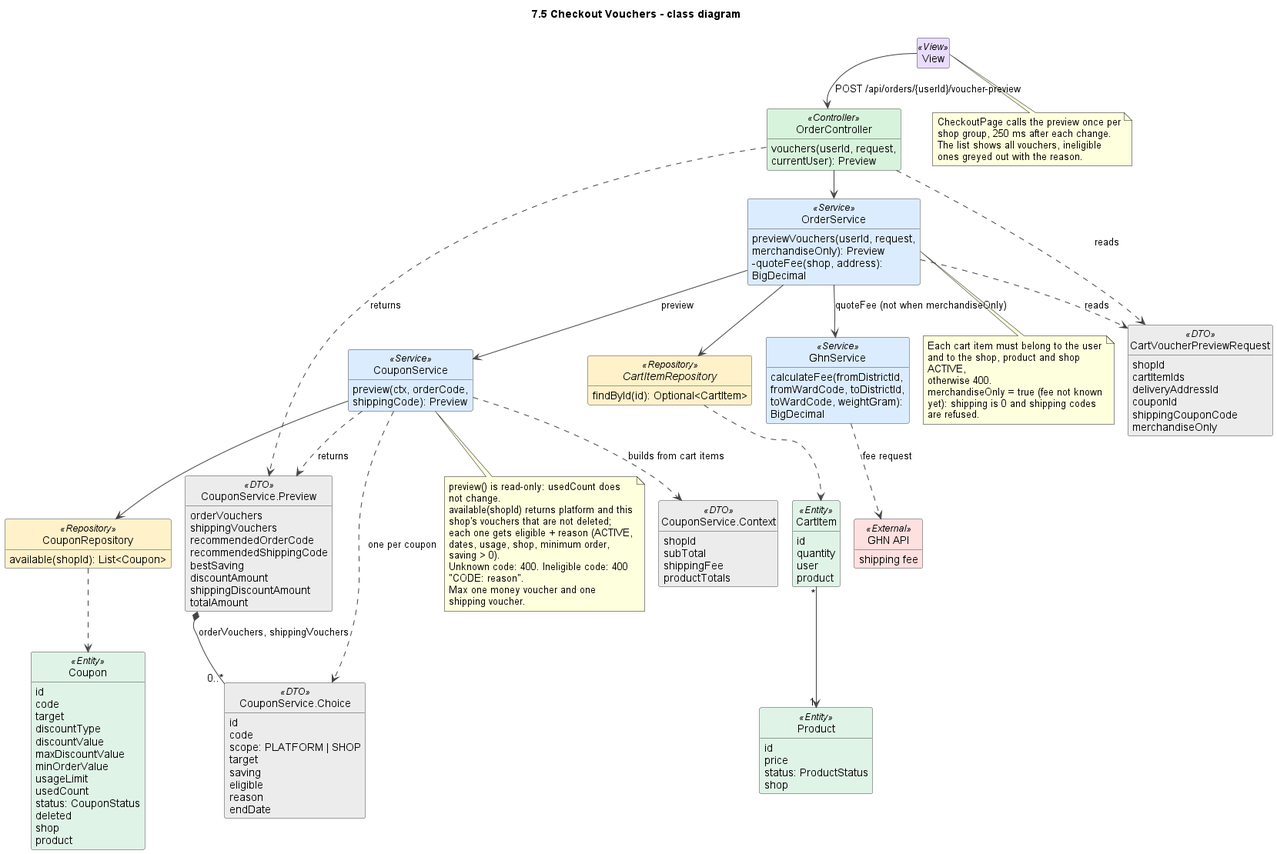
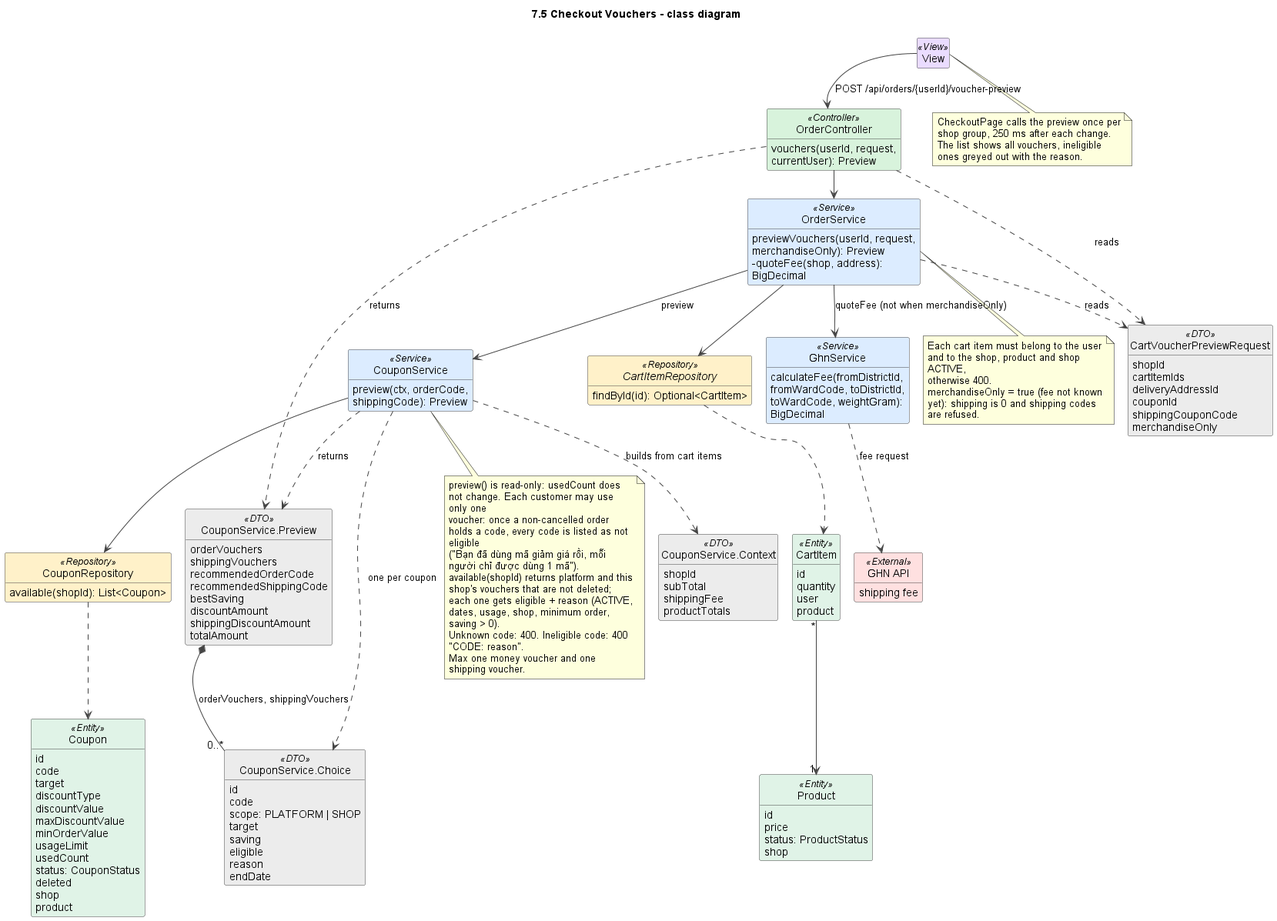
update coupons

diff --git a/flower-shop-client/src/components/checkout/VoucherPicker.jsx b/flower-shop-client/src/components/checkout/VoucherPicker.jsx
@@ -24,8 +24,8 @@ export default function VoucherPicker({ context, value, onChange, onPreview, dis
   }, [request, retry, onPreview])
 
   const choose = (key, code) => onChange(key === 'shippingCouponCode'
-    ? { couponCode: '', shippingCouponCode: code } // Money eligibility changes when the shipping slot changes.
-    : { ...value, couponCode: code })
+    ? { couponCode: '', shippingCouponCode: code } // Mỗi người chỉ được dùng 1 mã giảm giá: chọn mã vận chuyển thì bỏ mã giảm tiền.
+    : { couponCode: code, shippingCouponCode: '' }) // Mỗi người chỉ được dùng 1 mã giảm giá
   const renderChoices = (items, key, title) => <fieldset disabled={disabled || busy} className="space-y-2">
     <legend className="mb-2 text-sm font-semibold">{title}</legend>
     <label className="flex items-center gap-2 text-sm"><input type="radio" name={`${namespace}-voucher-${key}`} checked={!value[key]} onChange={() => choose(key, '')} />Không dùng mã</label>

diff --git a/flowershop/src/test/java/com/example/flowershop/CouponTests.java b/flowershop/src/test/java/com/example/flowershop/CouponTests.java
@@ -114,23 +114,22 @@ class CouponTests {
         var low=coupon("CUSTOMLOW",CouponTarget.ORDER,"5","20000");low.setShop(shop);
         var high=coupon("CUSTOMHIGH",CouponTarget.ORDER,"20","70000");high.setShop(shop);
         var ship=coupon("CUSTOMSHIP",CouponTarget.SHIPPING,"100","30000");coupons.flush();
-        var input=depositInput();input.setCouponCode(low.getCode());input.setShippingCouponCode(ship.getCode());
+        var input=depositInput();input.setCouponCode(low.getCode());
         var preview=cartOrders.previewCustomVouchers(customer.getId(),design.getId(),input);
-        assertThat(preview.totalAmount()).isEqualByComparingTo("480000");
+        assertThat(preview.totalAmount()).isEqualByComparingTo("510000");
         assertThat(preview.depositAmount()).isEqualByComparingTo("144000");
-        assertThat(preview.remainingAmount()).isEqualByComparingTo("336000");
-        assertThat(preview.orderVouchers()).filteredOn(v->v.code().equals(high.getCode())).allSatisfy(v->assertThat(v.eligible()).isFalse());
+        assertThat(preview.remainingAmount()).isEqualByComparingTo("366000");
         input.setExpectedTotal(preview.totalAmount());
         input.setExpectedDeposit(preview.depositAmount());
         var created=cartOrders.makeCustomOrder(customer.getId(),design.getId(),input);
         var saved=orders.findById(created.getId()).orElseThrow();
         assertThat(saved.getStatus()).isEqualTo(OrderStatus.AWAITING_DEPOSIT);
-        assertThat(saved.getTotalAmount()).isEqualByComparingTo("480000");
+        assertThat(saved.getTotalAmount()).isEqualByComparingTo("510000");
         assertThat(saved.getDepositAmount()).isEqualByComparingTo("144000");
         assertThat(created.getCouponCode()).isEqualTo(low.getCode());
-        assertThat(created.getShippingCouponCode()).isEqualTo(ship.getCode());
+        assertThat(created.getShippingCouponCode()).isNull();
         assertThat(coupons.findById(low.getId()).orElseThrow().getUsedCount()).isEqualTo(1);
-        assertThat(coupons.findById(ship.getId()).orElseThrow().getUsedCount()).isEqualTo(1);
+        assertThat(coupons.findById(ship.getId()).orElseThrow().getUsedCount()).isZero();
         assertThat(payments.findByOrderId(saved.getId())).isEmpty();
         var gateway=PaymentBusinessTests.newGateway(orders,payments,refunds,cartOrders);
         org.springframework.test.util.ReflectionTestUtils.setField(gateway,"merchantId","merchant-test");
@@ -188,17 +187,15 @@ class CouponTests {
         coupon("FREE",CouponTarget.SHIPPING,"100","70000");
         assertThat(service.preview(ctx(),null,"FREE").shippingDiscountAmount()).isEqualByComparingTo("30000");
     }
-    @Test void shippingAllowsOnlyLowestActualSavingAndDisablesOthers() {
-        coupon("CAP20",CouponTarget.ORDER,"100","20000");
+    @Test void orderAndShippingCodesCannotBeCombinedBecauseOnlyOneVoucherIsAllowed() {
         coupon("ONEPERCENT",CouponTarget.ORDER,"1","70000");
         coupon("SHIP",CouponTarget.SHIPPING,"100","30000");
-        var result=service.preview(ctx(),"ONEPERCENT","SHIP");
-        assertThat(result.totalAmount()).isEqualByComparingTo("495000");
-        assertThat(result.orderVouchers()).filteredOn(v -> v.code().equals("CAP20"))
-                .allSatisfy(v -> { assertThat(v.eligible()).isFalse(); assertThat(v.reason()).isEqualTo("mã voucher không phù hợp"); });
-        assertThatThrownBy(() -> service.preview(ctx(),"CAP20","SHIP")).isInstanceOf(ApiException.class).hasMessage("mã voucher không phù hợp");
+        assertThatThrownBy(() -> service.preview(ctx(),"ONEPERCENT","SHIP")).isInstanceOf(ApiException.class)
+                .hasMessageContaining("Mỗi người chỉ được dùng 1 mã giảm giá");
+        assertThat(service.preview(ctx(),"ONEPERCENT",null).totalAmount()).isEqualByComparingTo("525000");
+        assertThat(service.preview(ctx(),null,"SHIP").totalAmount()).isEqualByComparingTo("500000");
     }
-    @Test void recommendsBestCombinationRatherThanAlwaysStacking() {
+    @Test void recommendsTheSingleBestVoucher() {
         coupon("LOW",CouponTarget.ORDER,"10","20000");
         var high=coupon("HIGH",CouponTarget.ORDER,"20","70000");
         coupon("SHIP",CouponTarget.SHIPPING,"100","30000");
@@ -208,9 +205,9 @@ class CouponTests {
         assertThat(result.bestSaving()).isEqualByComparingTo("70000");
         high.setDiscountValue(money("5")); coupons.saveAndFlush(high);
         result=service.preview(ctx(),null,null);
-        assertThat(result.recommendedOrderCode()).isEqualTo("LOW");
+        assertThat(result.recommendedOrderCode()).isNull();
         assertThat(result.recommendedShippingCode()).isEqualTo("SHIP");
-        assertThat(result.bestSaving()).isEqualByComparingTo("50000");
+        assertThat(result.bestSaving()).isEqualByComparingTo("30000");
     }
     @Test void minimumExcludesExpiredUnavailableAndWrongShopVouchersAndAcceptsTies() {
         var expired=coupon("EXPIRED",CouponTarget.ORDER,"1","20000"); expired.setEndDate(LocalDateTime.now().minusHours(1));
@@ -220,7 +217,7 @@ class CouponTests {
         var min=coupon("MINIMUM",CouponTarget.ORDER,"1","20000"); min.setMinOrderValue(money("600000"));
         coupon("LOW1",CouponTarget.ORDER,"10","20000"); coupon("LOW2",CouponTarget.ORDER,"10","20000"); coupon("SHIP",CouponTarget.SHIPPING,"100","30000");
         coupons.flush();
-        var result=service.preview(ctx(),"LOW2","SHIP");
+        var result=service.preview(ctx(),"LOW2",null);
         assertThat(result.orderVouchers()).filteredOn(CouponService.Choice::eligible).extracting(CouponService.Choice::code).containsExactlyInAnyOrder("LOW1","LOW2");
         assertThat(result.orderVouchers()).extracting(CouponService.Choice::code).doesNotContain("OTHER");
     }
@@ -233,13 +230,13 @@ class CouponTests {
     }
     @Test void directCheckoutPersistsBothDiscountsAndPaymentTotalAndReleasesOnce() {
         var low=coupon("LOW",CouponTarget.ORDER,"10","20000"); var ship=coupon("SHIP",CouponTarget.SHIPPING,"100","30000");
-        var result=customerOrders.checkout(customer.getId(),new CustomerOrderService.CheckoutRequest(destination.getId(),product.getId(),1,"","LOW","SHIP"));
-        assertThat(result.totalAmount()).isEqualByComparingTo("480000");
+        var result=customerOrders.checkout(customer.getId(),new CustomerOrderService.CheckoutRequest(destination.getId(),product.getId(),1,"","LOW",null));
+        assertThat(result.totalAmount()).isEqualByComparingTo("510000");
         var saved=customerOrders.detail(customer.getId(),result.orderId());
-        assertThat(saved.couponCode()).isEqualTo("LOW"); assertThat(saved.shippingCouponCode()).isEqualTo("SHIP");
-        assertThat(saved.discountAmount()).isEqualByComparingTo("20000"); assertThat(saved.shippingDiscountAmount()).isEqualByComparingTo("30000");
-        assertThat(payments.findByOrderId(result.orderId())).allSatisfy(p -> assertThat(p.getAmount()).isEqualByComparingTo("480000"));
-        assertThat(low.getUsedCount()).isEqualTo(1); assertThat(ship.getUsedCount()).isEqualTo(1);
+        assertThat(saved.couponCode()).isEqualTo("LOW"); assertThat(saved.shippingCouponCode()).isNull();
+        assertThat(saved.discountAmount()).isEqualByComparingTo("20000"); assertThat(saved.shippingDiscountAmount()).isEqualByComparingTo("0");
+        assertThat(payments.findByOrderId(result.orderId())).allSatisfy(p -> assertThat(p.getAmount()).isEqualByComparingTo("510000"));
+        assertThat(low.getUsedCount()).isEqualTo(1); assertThat(ship.getUsedCount()).isZero();
         manager.cancel(shop.getId(),owner.getId(),result.orderId(),"Cancel");
         service.release(orders.findById(result.orderId()).orElseThrow());
         assertThat(low.getUsedCount()).isZero(); assertThat(ship.getUsedCount()).isZero();
@@ -248,10 +245,10 @@ class CouponTests {
         var low=coupon("LOW",CouponTarget.ORDER,"10","20000"); var ship=coupon("SHIP",CouponTarget.SHIPPING,"100","30000");
         var item=cart.saveAndFlush(CartItem.builder().id(id()).user(customer).product(product).quantity(1).build());
         var req=new MakeOrderRequest(); req.setShopId(shop.getId()); req.setCartItemIds(List.of(item.getId())); req.setDeliveryAddressId(destination.getId());
-        req.setCouponId("LOW"); req.setShippingCouponCode("SHIP"); req.setPaymentMethod("ONLINE");
-        assertThat(cartOrders.previewVouchers(customer.getId(),req).totalAmount()).isEqualByComparingTo("480000");
+        req.setCouponId("LOW"); req.setPaymentMethod("ONLINE");
+        assertThat(cartOrders.previewVouchers(customer.getId(),req).totalAmount()).isEqualByComparingTo("510000");
         var result=cartOrders.makeOrder(customer.getId(),req);
-        assertThat(result.getTotalAmount()).isEqualByComparingTo("480000");
+        assertThat(result.getTotalAmount()).isEqualByComparingTo("510000");
         var order=orders.findById(result.getId()).orElseThrow(); order.setPaymentStartedAt(LocalDateTime.now().minusMinutes(11));
         cartOrders.cancelExpiredOrder(order.getId(),"Expired"); cartOrders.cancelExpiredOrder(order.getId(),"Expired again");
         assertThat(low.getUsedCount()).isZero(); assertThat(ship.getUsedCount()).isZero();
@@ -262,10 +259,10 @@ class CouponTests {
         var design=new CustomFlowerOrderService.RequestInput(shop.getId(),1,"",new CustomFlowerOrderService.Preferences(null,null,null,null,null,null));
         var receipt=workflow.create(customer.getId(),new CustomOrderWorkflowService.CreateInput(destination.getId(),design));
         workflow.quote(shop.getId(),owner.getId(),receipt.orderId(),new CustomOrderWorkflowService.Quote(money("400000"),"Quote"));
-        var preview=workflow.previewVouchers(customer.getId(),receipt.orderId(),new CustomOrderWorkflowService.VoucherInput("LOW","SHIP"));
+        var preview=workflow.previewVouchers(customer.getId(),receipt.orderId(),new CustomOrderWorkflowService.VoucherInput("LOW",null));
         assertThat(low.getUsedCount()).isZero();
-        workflow.accept(customer.getId(),receipt.orderId(),new CustomOrderWorkflowService.Accept(PaymentMethod.COD,preview.totalAmount(),"LOW","SHIP"));
-        assertThat(customerOrders.detail(customer.getId(),receipt.orderId()).totalAmount()).isEqualByComparingTo("380000");
+        workflow.accept(customer.getId(),receipt.orderId(),new CustomOrderWorkflowService.Accept(PaymentMethod.COD,preview.totalAmount(),"LOW",null));
+        assertThat(customerOrders.detail(customer.getId(),receipt.orderId()).totalAmount()).isEqualByComparingTo("410000");
         assertThat(low.getUsedCount()).isEqualTo(1);
     }
     @Test void quotedCustomWithVouchersCanPayDepositInsteadOfBeingForcedToFullOrCod() {
@@ -276,11 +273,11 @@ class CouponTests {
                 new CustomFlowerOrderService.Preferences(null,null,null,null,null,null));
         var receipt=workflow.create(customer.getId(),new CustomOrderWorkflowService.CreateInput(destination.getId(),design));
         workflow.quote(shop.getId(),owner.getId(),receipt.orderId(),new CustomOrderWorkflowService.Quote(money("400000"),"Quote"));
-        var preview=workflow.previewVouchers(customer.getId(),receipt.orderId(),new CustomOrderWorkflowService.VoucherInput("DEPOSITLOW","DEPOSITSHIP"));
-        assertThat(preview.totalAmount()).isEqualByComparingTo("380000");
-        assertThat(preview.depositAmount()).isEqualByComparingTo("190000");
+        var preview=workflow.previewVouchers(customer.getId(),receipt.orderId(),new CustomOrderWorkflowService.VoucherInput("DEPOSITLOW",null));
+        assertThat(preview.totalAmount()).isEqualByComparingTo("410000");
+        assertThat(preview.depositAmount()).isEqualByComparingTo("205000");
         var result=workflow.accept(customer.getId(),receipt.orderId(),new CustomOrderWorkflowService.Accept(
-                PaymentMethod.ONLINE,preview.totalAmount(),"DEPOSITLOW","DEPOSITSHIP",PaymentType.DEPOSIT,preview.depositAmount()));
+                PaymentMethod.ONLINE,preview.totalAmount(),"DEPOSITLOW",null,PaymentType.DEPOSIT,preview.depositAmount()));
         assertThat(result.status()).isEqualTo("AWAITING_DEPOSIT");
         var order=orders.findById(receipt.orderId()).orElseThrow();
         assertThat(order.getPaymentStartedAt()).isNotNull();
@@ -289,8 +286,8 @@ class CouponTests {
         org.springframework.test.util.ReflectionTestUtils.setField(gateway,"secretKey","secret-test");
         var payment=gateway.createPayment(com.example.flowershop.dto.payment.CreatePaymentRequest.builder()
                 .orderId(order.getId()).paymentType(PaymentType.DEPOSIT).build(),customer.getId());
-        assertThat(payment.getAmount()).isEqualByComparingTo("190000");
-        assertThat(payment.getFields().get("order_amount")).isEqualTo("190000");
+        assertThat(payment.getAmount()).isEqualByComparingTo("205000");
+        assertThat(payment.getFields().get("order_amount")).isEqualTo("205000");
     }
     @Test void multiShopCheckoutKeepsEachShopsVoucherAndDiscountedTotal() {
         var first=coupon("FIRST",CouponTarget.ORDER,"5","20000"); first.setShop(shop); coupons.saveAndFlush(first);
@@ -300,12 +297,12 @@ class CouponTests {
         var item1=cart.saveAndFlush(CartItem.builder().id(id()).user(customer).product(product).quantity(1).build());
         var item2=cart.saveAndFlush(CartItem.builder().id(id()).user(customer).product(otherProduct).quantity(1).build());
         var a=new com.example.flowershop.dto.order.MakeOrdersRequest.ShopOrder(); a.setShopId(shop.getId()); a.setCartItemIds(List.of(item1.getId())); a.setCouponId("FIRST"); a.setExpectedTotal(money("510000"));
-        var b=new com.example.flowershop.dto.order.MakeOrdersRequest.ShopOrder(); b.setShopId(otherShop.getId()); b.setCartItemIds(List.of(item2.getId())); b.setCouponId("SECOND"); b.setExpectedTotal(money("480000"));
+        var b=new com.example.flowershop.dto.order.MakeOrdersRequest.ShopOrder(); b.setShopId(otherShop.getId()); b.setCartItemIds(List.of(item2.getId())); b.setExpectedTotal(money("530000"));
         var request=new com.example.flowershop.dto.order.MakeOrdersRequest(); request.setDeliveryAddressId(destination.getId()); request.setPaymentMethod("ONLINE"); request.setRecipientName("Customer"); request.setPhone("0901234567"); request.setShops(List.of(a,b));
         var result=cartOrders.makeOrders(customer.getId(),request);
         assertThat(result).hasSize(2);
-        assertThat(result).extracting(com.example.flowershop.dto.order.OrderResponse::getCouponCode).containsExactlyInAnyOrder("FIRST","SECOND");
-        assertThat(result.stream().map(com.example.flowershop.dto.order.OrderResponse::getTotalAmount).reduce(BigDecimal.ZERO,BigDecimal::add)).isEqualByComparingTo("990000");
+        assertThat(result).extracting(com.example.flowershop.dto.order.OrderResponse::getCouponCode).containsExactlyInAnyOrder("FIRST",null);
+        assertThat(result.stream().map(com.example.flowershop.dto.order.OrderResponse::getTotalAmount).reduce(BigDecimal.ZERO,BigDecimal::add)).isEqualByComparingTo("1040000");
         assertThat(result.stream().map(r -> orders.findById(r.getId()).orElseThrow().getCheckoutGroup()).distinct().toList()).hasSize(1).doesNotContainNull();
     }
     MockHttpServletRequestBuilder csrf(MockHttpServletRequestBuilder request,String role) throws Exception {
@@ -367,11 +364,11 @@ class CouponTests {
         body.put("merchandiseOnly",false);
         mvc.perform(csrf(post(path),"customer").content(json.writeValueAsString(body))).andExpect(status().isBadRequest());
     }
-    @Test void checkoutApiRejectsForgedHighVoucherWithShipping() throws Exception {
+    @Test void checkoutApiRejectsAnOrderCodeTogetherWithAShippingCode() throws Exception {
         coupon("LOW",CouponTarget.ORDER,"10","20000"); coupon("HIGH",CouponTarget.ORDER,"20","70000"); coupon("SHIP",CouponTarget.SHIPPING,"100","30000");
         String request="{\"addressId\":\""+destination.getId()+"\",\"productId\":\""+product.getId()+"\",\"quantity\":1,\"couponCode\":\"HIGH\",\"shippingCouponCode\":\"SHIP\"}";
         mvc.perform(csrf(post("/api/customer/orders/checkout"),"customer").content(request)).andExpect(status().isBadRequest())
-                .andExpect(jsonPath("$.message").value("mã voucher không phù hợp"));
+                .andExpect(jsonPath("$.message").value(org.hamcrest.Matchers.containsString("Mỗi người chỉ được dùng 1 mã giảm giá")));
     }
     @Test
     @Transactional(propagation=org.springframework.transaction.annotation.Propagation.NOT_SUPPORTED)
@@ -395,5 +392,24 @@ class CouponTests {
                     .containsExactlyInAnyOrder(true,false);
             assertThat(coupons.findById(c.getId()).orElseThrow().getUsedCount()).isEqualTo(1);
         } finally { pool.shutdownNow(); coupons.deleteById(c.getId()); }
+    }
+    @Test void eachCustomerUsesOnlyOneVoucherUntilThatOrderIsCancelled() {
+        var voucher=coupon("ONEONLY",CouponTarget.ORDER,"10","20000");
+        var other=coupon("SECONDCODE",CouponTarget.ORDER,"10","20000");
+        String refused="Bạn đã dùng mã giảm giá rồi, mỗi người chỉ được dùng 1 mã";
+        Order first=orders.saveAndFlush(Order.builder().id(id()).customer(customer).shop(shop).orderType(OrderType.STANDARD)
+                .status(OrderStatus.PENDING).subTotal(money("500000")).totalAmount(money("500000")).build());
+        service.apply(first,ctx(),voucher.getCode(),null);orders.flush();
+        var preview=service.preview(ctx(),customer.getId(),null,null);
+        assertThat(preview.orderVouchers()).allSatisfy(v->{assertThat(v.eligible()).isFalse();assertThat(v.reason()).isEqualTo(refused);});
+        assertThatThrownBy(()->service.preview(ctx(),customer.getId(),other.getCode(),null)).isInstanceOf(ApiException.class).hasMessageContaining(refused);
+        Order second=orders.saveAndFlush(Order.builder().id(id()).customer(customer).shop(shop).orderType(OrderType.STANDARD)
+                .status(OrderStatus.PENDING).subTotal(money("500000")).totalAmount(money("500000")).build());
+        assertThatThrownBy(()->service.apply(second,ctx(),other.getCode(),null)).isInstanceOf(ApiException.class).hasMessageContaining(refused);
+        assertThatThrownBy(()->service.apply(second,ctx(),voucher.getCode(),null)).isInstanceOf(ApiException.class).hasMessageContaining(refused);
+        var otherCustomer=user(UserRole.CUSTOMER);
+        assertThat(service.preview(ctx(),otherCustomer.getId(),voucher.getCode(),null).discountAmount()).isPositive();
+        service.release(first);orders.flush();
+        assertThat(service.preview(ctx(),customer.getId(),other.getCode(),null).discountAmount()).isPositive();
     }
 }

diff --git a/flowershop/src/main/java/com/example/flowershop/service/CouponService.java b/flowershop/src/main/java/com/example/flowershop/service/CouponService.java
@@ -35,8 +35,9 @@ public class CouponService {
     private final CouponRepository coupons;
     private final ShopRepository shops;
     private final ProductRepository products;
-    public CouponService(CouponRepository coupons, ShopRepository shops, ProductRepository products) {
-        this.coupons=coupons; this.shops=shops; this.products=products;
+    private final OrderRepository orders;
+    public CouponService(CouponRepository coupons, ShopRepository shops, ProductRepository products, OrderRepository orders) {
+        this.coupons=coupons; this.shops=shops; this.products=products; this.orders=orders;
     }
     private LocalDateTime now() { return LocalDateTime.now(ZoneId.of("Asia/Ho_Chi_Minh")); }
     private Shop owned(String shopId, String actor) {
@@ -90,12 +91,13 @@ public class CouponService {
     public void delete(String actor,String shopId,String id) {
         Coupon c=managed(actor,shopId,id); c.setDeleted(true); c.setStatus(CouponStatus.DISABLED); c.setLastModifyBy(actor);
     }
-    private String reason(Coupon c, Context ctx) {
+    private String reason(Coupon c, Context ctx, Set<String> usedByCustomer) {
         if(c.isDeleted() || c.getStatus()!=CouponStatus.ACTIVE) return "Mã đã ngừng áp dụng";
         var time=now();
         if(time.isBefore(c.getStartDate())) return "Mã chưa đến ngày bắt đầu";
         if(!time.isBefore(c.getEndDate())) return "Mã đã hết hạn";
         if(c.getUsedCount()>=c.getUsageLimit()) return "Mã đã hết lượt sử dụng";
+        if(!usedByCustomer.isEmpty()) return "Bạn đã dùng mã giảm giá rồi, mỗi người chỉ được dùng 1 mã";
         if(c.getShop()!=null && (!c.getShop().getId().equals(ctx.shopId()) || c.getTarget()!=CouponTarget.ORDER)) return "Mã không áp dụng cho shop này";
         if(c.getDiscountValue()==null || c.getDiscountValue().signum()<=0 || c.getMaxDiscountValue()==null
                 || c.getMaxDiscountValue().signum()<=0 || c.getMaxDiscountValue().compareTo(new BigDecimal("100000"))>0
@@ -117,45 +119,47 @@ public class CouponService {
         return amount.min(c.getMaxDiscountValue()).min(limit).max(BigDecimal.ZERO).setScale(0,RoundingMode.DOWN);
     }
     private Comparator<Coupon> bySaving(Context ctx) { return Comparator.comparing((Coupon c) -> saving(c,ctx)).thenComparing(Coupon::getCode); }
-    private Coupon selected(List<Coupon> all,String code,boolean shipping,Context ctx) {
+    private Coupon selected(List<Coupon> all,String code,boolean shipping,Context ctx,Set<String> used) {
         if(code==null || code.isBlank()) return null;
         var c=all.stream().filter(v -> v.getCode().equalsIgnoreCase(code.strip())).findFirst()
                 .orElseThrow(() -> ApiException.badRequest("Mã giảm giá không tồn tại hoặc không áp dụng cho shop này."));
-        String error=reason(c,ctx);
+        String error=reason(c,ctx,used);
         if(error!=null) throw ApiException.badRequest(c.getCode()+": "+error);
         if((c.getTarget()==CouponTarget.SHIPPING)!=shipping) throw ApiException.badRequest("Mã không đúng loại giảm giá đã chọn.");
         return c;
     }
+    /** Không biết khách là ai: bỏ qua luật mỗi người chỉ dùng 1 mã giảm giá. */
     public Preview preview(Context ctx,String orderCode,String shippingCode) {
-        return evaluate(ctx,orderCode,shippingCode,coupons.available(ctx.shopId()));
+        return evaluate(ctx,orderCode,shippingCode,coupons.available(ctx.shopId()),Set.of());
     }
-    private Preview evaluate(Context ctx,String orderCode,String shippingCode,List<Coupon> all) {
-        var money=all.stream().filter(c -> c.getTarget()!=CouponTarget.SHIPPING && reason(c,ctx)==null).sorted(bySaving(ctx)).toList();
-        var ship=all.stream().filter(c -> c.getTarget()==CouponTarget.SHIPPING && reason(c,ctx)==null).sorted(bySaving(ctx)).toList();
-        Coupon selectedMoney=selected(all,orderCode,false,ctx), selectedShip=selected(all,shippingCode,true,ctx);
-        BigDecimal lowest=money.isEmpty()?BigDecimal.ZERO:saving(money.get(0),ctx);
-        if(selectedShip!=null && selectedMoney!=null && saving(selectedMoney,ctx).compareTo(lowest)!=0)
-            throw ApiException.badRequest("mã voucher không phù hợp");
-        Coupon bestMoney=money.isEmpty()?null:money.get(money.size()-1), bestShip=null;
-        BigDecimal best=bestMoney==null?BigDecimal.ZERO:saving(bestMoney,ctx);
-        if(!ship.isEmpty()) {
-            Coupon maxShip=ship.get(ship.size()-1);
-            BigDecimal combined=saving(maxShip,ctx).add(lowest);
-            if(combined.compareTo(best)>0) { best=combined; bestShip=maxShip; bestMoney=money.isEmpty()?null:money.get(0); }
-        }
+    /** Xem trước cho một khách: nếu khách đã dùng một mã cho đơn chưa hủy thì mọi mã đều bị đánh dấu không dùng được. */
+    public Preview preview(Context ctx,String customerId,String orderCode,String shippingCode) {
+        return preview(ctx,customerId,null,orderCode,shippingCode);
+    }
+    /** Như trên, bỏ qua mã đang gắn trên chính đơn excludeOrderId (đơn báo giá đang xem). */
+    public Preview preview(Context ctx,String customerId,String excludeOrderId,String orderCode,String shippingCode) {
+        return evaluate(ctx,orderCode,shippingCode,coupons.available(ctx.shopId()),orders.couponIdsUsedBy(customerId,excludeOrderId));
+    }
+    private static final String ONE_VOUCHER_ONLY = "Mỗi người chỉ được dùng 1 mã giảm giá";
+    private Preview evaluate(Context ctx,String orderCode,String shippingCode,List<Coupon> all,Set<String> used) {
+        boolean hasOrder=orderCode!=null && !orderCode.isBlank(), hasShipping=shippingCode!=null && !shippingCode.isBlank();
+        if(hasOrder && hasShipping) throw ApiException.badRequest(ONE_VOUCHER_ONLY+": chỉ chọn mã giảm đơn hàng hoặc mã giảm phí vận chuyển.");
+        Coupon selectedMoney=selected(all,orderCode,false,ctx,used), selectedShip=selected(all,shippingCode,true,ctx,used);
+        Coupon best=all.stream().filter(c -> reason(c,ctx,used)==null).max(bySaving(ctx)).orElse(null);
         List<Choice> moneyChoices=new ArrayList<>(),shipChoices=new ArrayList<>();
         for(Coupon c:all.stream().sorted(Comparator.comparing(Coupon::getCode)).toList()) {
-            String error=reason(c,ctx);
+            String error=reason(c,ctx,used);
             BigDecimal amount=error==null?saving(c,ctx):BigDecimal.ZERO;
-            if(error==null && selectedShip!=null && c.getTarget()!=CouponTarget.SHIPPING && amount.compareTo(lowest)!=0) error="mã voucher không phù hợp";
             Choice choice=new Choice(c.getId(),c.getCode(),c.getShop()==null?"PLATFORM":"SHOP",c.getTarget(),c.getDiscountType(),
                     c.getDiscountValue(),c.getMaxDiscountValue(),c.getMinOrderValue(),amount,error==null,error,c.getEndDate());
             (c.getTarget()==CouponTarget.SHIPPING?shipChoices:moneyChoices).add(choice);
         }
         BigDecimal discount=selectedMoney==null?BigDecimal.ZERO:saving(selectedMoney,ctx);
         BigDecimal shippingDiscount=selectedShip==null?BigDecimal.ZERO:saving(selectedShip,ctx);
-        return new Preview(moneyChoices,shipChoices,bestMoney==null?null:bestMoney.getCode(),bestShip==null?null:bestShip.getCode(),best,
-                discount,shippingDiscount,ctx.subTotal().add(ctx.shippingFee()).subtract(discount).subtract(shippingDiscount));
+        boolean bestIsShipping=best!=null && best.getTarget()==CouponTarget.SHIPPING;
+        return new Preview(moneyChoices,shipChoices,best==null||bestIsShipping?null:best.getCode(),bestIsShipping?best.getCode():null,
+                best==null?BigDecimal.ZERO:saving(best,ctx),discount,shippingDiscount,
+                ctx.subTotal().add(ctx.shippingFee()).subtract(discount).subtract(shippingDiscount));
     }
     /** Call only within the order's write transaction. Both slots lock in deterministic code order. */
     @Transactional
@@ -166,7 +170,7 @@ public class CouponService {
         Map<String,Coupon> locked=new HashMap<>();
         for(String code:codes) locked.put(code,coupons.findByCodeForUpdate(code).orElseThrow(() -> ApiException.badRequest("Mã giảm giá không tồn tại.")));
         var all=coupons.available(ctx.shopId());
-        Preview result=evaluate(ctx,orderCode,shippingCode,all);
+        Preview result=evaluate(ctx,orderCode,shippingCode,all,order.getCustomer()==null?Set.of():orders.couponIdsUsedByForUpdate(order.getCustomer().getId(),order.getId()));
         for(Coupon c:locked.values()) c.setUsedCount(c.getUsedCount()+1);
         Coupon money=orderCode==null?null:locked.get(orderCode.strip().toUpperCase(Locale.ROOT));
         Coupon ship=shippingCode==null?null:locked.get(shippingCode.strip().toUpperCase(Locale.ROOT));

diff --git a/flowershop/src/main/java/com/example/flowershop/repository/OrderRepository.java b/flowershop/src/main/java/com/example/flowershop/repository/OrderRepository.java
@@ -22,6 +22,29 @@ public class OrderRepository extends HibernateRepository<Order> {
     }
     public OrderRepository() { super(Order.class); }
 
+    /** Id các mã (đơn và vận chuyển) khách đã dùng cho đơn chưa hủy; đơn bị hủy đã nhả mã nên không tính. */
+    public Set<String> couponIdsUsedBy(String customerId, String excludeOrderId) {
+        var ids = new HashSet<String>();
+        String where = " from Order e where e.customer.id = :customerId and e.couponsReleased = false and e.id <> :exclude";
+        for (String field : List.of("couponId", "shippingCouponId")) {
+            ids.addAll(session().createSelectionQuery("select e." + field + where + " and e." + field + " is not null", String.class)
+                    .setParameter("customerId", customerId).setParameter("exclude", excludeOrderId == null ? "" : excludeOrderId)
+                    .getResultList());
+        }
+        return ids;
+    }
+
+    /** Như couponIdsUsedBy nhưng đọc khóa (FOR UPDATE) để thấy đơn vừa commit của một yêu cầu song song; chỉ dùng khi đặt đơn. */
+    public Set<String> couponIdsUsedByForUpdate(String customerId, String excludeOrderId) {
+        var ids = new HashSet<String>();
+        session().createSelectionQuery("from Order e where e.customer.id = :customerId and e.couponsReleased = false and e.id <> :exclude"
+                        + " and (e.couponId is not null or e.shippingCouponId is not null)", Order.class)
+                .setParameter("customerId", customerId).setParameter("exclude", excludeOrderId == null ? "" : excludeOrderId)
+                .setLockMode(jakarta.persistence.LockModeType.PESSIMISTIC_WRITE).getResultList()
+                .forEach(o -> { if (o.getCouponId() != null) ids.add(o.getCouponId()); if (o.getShippingCouponId() != null) ids.add(o.getShippingCouponId()); });
+        return ids;
+    }
+
     @Transactional
     public Optional<Order> findByIdForUpdate(String id) {
         return locked("e.id = :id", Map.of("id", id));

diff --git a/flowershop/src/main/java/com/example/flowershop/service/OrderService.java b/flowershop/src/main/java/com/example/flowershop/service/OrderService.java
@@ -212,7 +212,7 @@ single.setShippingCouponCode(part.getShippingCouponCode()); single.setExpectedTo
         var price=customPrice(custom);
         var fee=quoteFee(custom.getShop(),resolveDestination(userId,request.getDeliveryAddressId()));
         var preview=vouchers.preview(new CouponService.Context(custom.getShop().getId(),price.amount(),fee,java.util.Map.of()),
-                request.getCouponCode(),request.getShippingCouponCode());
+                userId,request.getCouponCode(),request.getShippingCouponCode());
         return com.example.flowershop.dto.order.CustomPaymentPreview.from(preview,price.amount(),fee,price.depositPercent());
     }
 
@@ -610,7 +610,7 @@ single.setShippingCouponCode(part.getShippingCouponCode()); single.setExpectedTo
                 .orElseThrow(() -> ApiException.badRequest("Sản phẩm không thuộc giỏ hàng/shop đang chọn hoặc đã ngừng bán."))).toList();
         if(items.isEmpty()) throw ApiException.badRequest("Chọn sản phẩm để áp voucher.");
         var shippingFee=merchandiseOnly ? BigDecimal.ZERO : quoteFee(items.get(0).getProduct().getShop(),resolveDestination(userId,request.getDeliveryAddressId()));
-        return vouchers.preview(voucherContext(request.getShopId(),items,shippingFee), request.getCouponId(),request.getShippingCouponCode());
+        return vouchers.preview(voucherContext(request.getShopId(),items,shippingFee), userId, request.getCouponId(),request.getShippingCouponCode());
     }
     @Transactional(readOnly=true)
     public BigDecimal quoteShippingFee(String userId, ShippingFeeRequest request) {

diff --git a/flowershop/src/main/java/com/example/flowershop/service/CustomerOrderService.java b/flowershop/src/main/java/com/example/flowershop/service/CustomerOrderService.java
@@ -340,6 +340,6 @@ order.getShippingDiscountAmount(),order.getCouponCode(),order.getShippingCouponC
     public CouponService.Preview previewVouchers(String customerId,CheckoutRequest req) {
         var product=products.findById(req.productId()).filter(p -> p.getStatus()==ProductStatus.ACTIVE && p.getShop().getStatus()==ShopStatus.ACTIVE)
                 .orElseThrow(() -> new ResponseStatusException(HttpStatus.BAD_REQUEST,"Sản phẩm không còn được bán."));
-        return vouchers.preview(context(product,req.quantity(),quote(product.getShop(),destination(customerId,req.addressId()))),req.couponCode(),req.shippingCouponCode());
+        return vouchers.preview(context(product,req.quantity(),quote(product.getShop(),destination(customerId,req.addressId()))),customerId,req.couponCode(),req.shippingCouponCode());
     }
 }

diff --git a/flowershop/src/main/java/com/example/flowershop/service/CustomOrderWorkflowService.java b/flowershop/src/main/java/com/example/flowershop/service/CustomOrderWorkflowService.java
@@ -191,7 +191,7 @@ public class CustomOrderWorkflowService {
         requireCustom(order);
         if(order.getStatus()!=OrderStatus.QUOTED) throw invalid("Đơn chưa được báo giá hoặc đã được xử lý.");
         return com.example.flowershop.dto.order.CustomPaymentPreview.from(
-                vouchers.preview(context(order),input.couponCode(),input.shippingCouponCode()),
+                vouchers.preview(context(order),order.getCustomer().getId(),order.getId(),input.couponCode(),input.shippingCouponCode()),
                 order.getSubTotal(),order.getShippingFee(),depositPercent(order));
     }
 }
